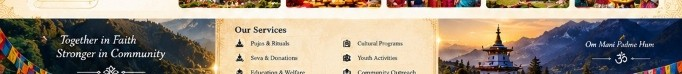
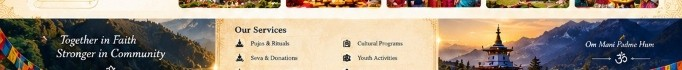
Fix hero crop without duplicate navbar, perfect circular om crest, borderless gallery crops and remove duplicate arrows

diff --git a/index.html b/index.html
@@ -93,14 +93,6 @@
     <div class="container hero-container-box">
       <div class="hero-image-frame">
         <img src="assets/divine-hero.jpg" alt="Divine Triad: Lord Shiva, Maa Durga, Lord Rama with Thimphu Dzong and Blessings" class="hero-panoramic-img">
-        <!-- Interactive Slider Controls matching original design -->
-        <button type="button" class="hero-arrow-btn prev" onclick="cycleHeroVerse(-1)" aria-label="Previous Slide">‹</button>
-        <button type="button" class="hero-arrow-btn next" onclick="cycleHeroVerse(1)" aria-label="Next Slide">›</button>
-        <div class="hero-pagination-dots">
-          <span class="dot active"></span>
-          <span class="dot"></span>
-          <span class="dot"></span>
-        </div>
       </div>
     </div>
   </section>
